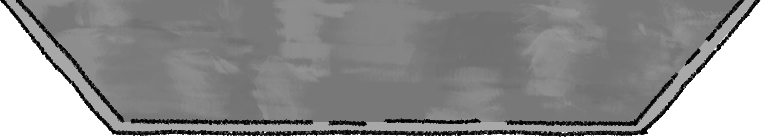
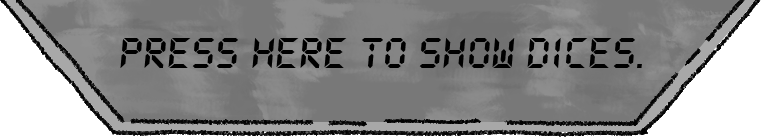
Cover and Indicators

Changed region(s): [[0.1511, 0.2628, 0.8463, 0.4964]]

diff --git a/core/src/main/java/com/espabila/skyteam/view/GamePlayScene.java b/core/src/main/java/com/espabila/skyteam/view/GamePlayScene.java
@@ -124,6 +124,14 @@ public class GamePlayScene implements Screen {
     private Texture noRerollTexture;
     private Texture tickIcon;
 
+    private Texture coverTexture;
+    private Image coverImage;
+
+    private Texture pilotIndicatorTexture;
+    private Image pilotIndicatorImage;
+    private Texture copilotIndicatorTexture;
+    private Image copilotIndicatorImage;
+
     // Change Turn button
     private Image blurryScreen;
     private TextButton readyButton;
@@ -164,9 +172,11 @@ public class GamePlayScene implements Screen {
         createAxisSlots();
         createAltitudeSlots();
         createApproachSlots();
-
         createBlurryScreen();
         createConcentrationScreen();
+        createCover();
+
+        updatePlayerIndicators();
     }
 
     @Override
@@ -251,9 +261,49 @@ public class GamePlayScene implements Screen {
         emptySlotTexture = new Texture("noNumber.jpg");
         tickIcon = new Texture("tickIcon.jpg");
 
+        pilotIndicatorTexture = new Texture("pilot.png");
+        pilotIndicatorImage = new Image(pilotIndicatorTexture);
+        pilotIndicatorImage.setPosition(835, 10);
+        pilotIndicatorImage.setVisible(false);
+        stage.addActor(pilotIndicatorImage);
+
+        copilotIndicatorTexture = new Texture("copilot.png");
+        copilotIndicatorImage = new Image(copilotIndicatorTexture);
+        copilotIndicatorImage.setPosition(710, 10);
+        copilotIndicatorImage.setVisible(false);
+        stage.addActor(copilotIndicatorImage);
+
         Table table = new Table();
         table.setFillParent(true);
         stage.addActor(table);
+    }
+
+    private void updatePlayerIndicators() {
+        if (gameController.getCurrentPlayer() instanceof Pilot) {
+            copilotIndicatorImage.setVisible(false);
+            pilotIndicatorImage.setVisible(true);
+        }
+        else {
+            pilotIndicatorImage.setVisible(false);
+            copilotIndicatorImage.setVisible(true);
+        }
+    }
+
+    private void createCover() {
+        coverTexture = new Texture("cover.png");
+        coverImage = new Image(coverTexture);
+        coverImage.setPosition(580, 943);
+        coverImage.setVisible(true);
+        stage.addActor(coverImage);
+        coverImage.addListener(new ClickListener() {
+            public void clicked(InputEvent event, float x, float y) {
+                coverImage.setVisible(false);
+            }
+        });
+    }
+
+    public void showCover() {
+        coverImage.setVisible(true);
     }
 
     private void createDiceSlots() {
@@ -648,6 +698,7 @@ public class GamePlayScene implements Screen {
                 if(!gameController.isRoundOver()){
                     gameController.switchTurn();
                     updateDiceImages();
+                    updatePlayerIndicators();
                 }
 
             }
